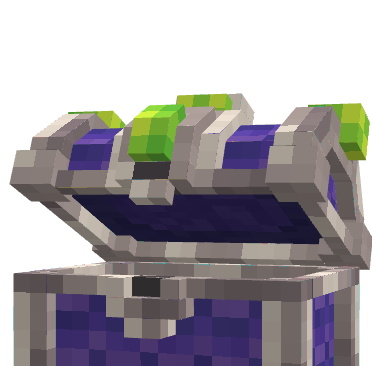
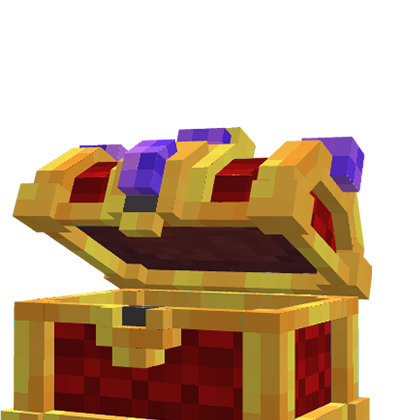
Change store colors

diff --git a/src/routes/Store/Store.css b/src/routes/Store/Store.css
@@ -118,7 +118,7 @@ s .storeSubroute h1 {
 /* Button Reset */
 
 .store .subrouter .active {
-  color: var(--color-text);
+  color: var(--color-secondary-darker);
 }
 
 /* Button Style */
@@ -162,8 +162,8 @@ s .storeSubroute h1 {
 .store .sub-list li:after {
   content: '';
   display: block;
-  width: 16px;
-  height: 16px;
+  width: 17px;
+  height: 17px;
   position: absolute;
   transition: all 0.2s ease;
 }
@@ -197,18 +197,10 @@ s .storeSubroute h1 {
   transform: rotate(45deg) scale(0.5);
 }
 
-.store .sub-list li:active:before {
-  transform: rotate(-45deg) scale(0);
-}
-
-.store .sub-list li:active:after {
-  transform: rotate(45deg) scale(0);
-}
-
 .store .sub-list li,
 .store .sub-list li:before,
 .store .sub-list li:after {
-  background-color: var(--color-third-darker);
+  background-color: var(--color-secondary-darker);
 }
 
 .store .sub-list li:disabled,
@@ -224,12 +216,12 @@ s .storeSubroute h1 {
 .store .sub-list li.active,
 .store .sub-list li.active:before,
 .store .sub-list li.active:after {
-  background-color: var(--color-fourth-darker);
+  background-color: var(--color-secondary-extra-darker);
 }
 
 .store .sub-list li#\/ranks a {
   background: url('../../img/store/ranks.png'),
-    linear-gradient(350deg, var(--color-third-dark) 5%, var(--color-third) 100%);
+    linear-gradient(350deg, var(--color-secondary-dark) 5%, var(--color-secondary) 100%);
 
   background-repeat: no-repeat;
   background-position: right;
@@ -237,7 +229,7 @@ s .storeSubroute h1 {
 
 .store .sub-list li#\/ranks a.active {
   background: url('../../img/store/ranks.png'),
-    linear-gradient(350deg, var(--color-fourth-dark) 5%, var(--color-fourth) 100%);
+    linear-gradient(350deg, var(--color-secondary-extra-dark) 5%, var(--color-secondary-extra) 100%);
 
   background-repeat: no-repeat;
   background-position: right;
@@ -245,7 +237,7 @@ s .storeSubroute h1 {
 
 .store .sub-list li#\/crates a {
   background: url('../../img/store/crate_preview.png'),
-    linear-gradient(350deg, var(--color-third-dark) 5%, var(--color-third) 100%);
+    linear-gradient(350deg, var(--color-secondary-dark) 5%, var(--color-secondary) 100%);
   background-size: contain;
   background-repeat: no-repeat;
   background-position: right;
@@ -253,7 +245,7 @@ s .storeSubroute h1 {
 
 .store .sub-list li#\/crates a.active {
   background: url('../../img/store/crate_preview.png'),
-    linear-gradient(350deg, var(--color-fourth-dark) 5%, var(--color-fourth) 100%);
+    linear-gradient(350deg, var(--color-secondary-extra-dark) 5%, var(--color-secondary-extra) 100%);
   background-size: contain;
   background-repeat: no-repeat;
   background-position: right;
@@ -261,7 +253,7 @@ s .storeSubroute h1 {
 
 .store .sub-list li#\/boosts a {
   background: url('../../img/store/boost.png'),
-    linear-gradient(350deg, var(--color-third-dark) 5%, var(--color-third) 100%);
+    linear-gradient(350deg, var(--color-secondary-dark) 5%, var(--color-secondary) 100%);
   background-size: contain;
   background-repeat: no-repeat;
   background-position: right;
@@ -269,7 +261,7 @@ s .storeSubroute h1 {
 
 .store .sub-list li#\/boosts a.active {
   background: url('../../img/store/boost.png'),
-    linear-gradient(350deg, var(--color-fourth-dark) 5%, var(--color-fourth) 100%);
+    linear-gradient(350deg, var(--color-secondary-extra-dark) 5%, var(--color-secondary-extra) 100%);
   background-size: contain;
   background-repeat: no-repeat;
   background-position: right;

diff --git a/src/routes/Store/Pages/SubPages/Crates.tsx b/src/routes/Store/Pages/SubPages/Crates.tsx
@@ -5,6 +5,7 @@ import './Crates.css';
 import Gallery from '../../../../components/Gallery';
 import CrateCard from './CrateCard';
 import cosmeticImg from '../../../../img/store/crate_cosmetic.png';
+import legendaryImg from '../../../../img/store/crate_legendary.png';
 
 const Crates: FunctionComponent = () => {
   const { t } = useTranslation();
@@ -24,7 +25,7 @@ const Crates: FunctionComponent = () => {
       />
       <CrateCard
         name="Legendary Crate"
-        image={<img src={cosmeticImg} alt="cosmetic" />}
+        image={<img src={legendaryImg} alt="legendary" />}
         buttons={[
           { amount: '20', before: '$80.00', after: '$60.00' },
           { amount: '10', before: '$40.00', after: '$30.00' },
@@ -35,7 +36,7 @@ const Crates: FunctionComponent = () => {
       />
       <CrateCard
         name="Rare Crate"
-        image={<img src={cosmeticImg} alt="cosmetic" />}
+        image={<img src={cosmeticImg} alt="rare" />}
         buttons={[
           { amount: '20', before: '$60.00', after: '$40.00' },
           { amount: '10', before: '$30.00', after: '$20.00' },

diff --git a/src/styles/colors.css b/src/styles/colors.css
@@ -9,6 +9,12 @@
   --color-secondary-dark: #f2a726;
   --color-secondary-darker: #c6690c;
 
+  --color-secondary-extra-light: #e5f41a;
+  --color-secondary-extra: #efe524;
+  --color-secondary-extra-dark: #f2cf25;
+  --color-secondary-extra-darker: #c68e0b;
+
+  /* 
   --color-fourth-light: #b07fff;
   --color-fourth: #854bf8;
   --color-fourth-dark: #5d1ee6;
@@ -17,7 +23,8 @@
   --color-third-light: #967fff;
   --color-third: #624bf8;
   --color-third-dark: #351ee6;
-  --color-third-darker: #2a12a1;
+  --color-third-darker: #2a12a1; 
+  */
 
   /* FEEDBACK */
 
